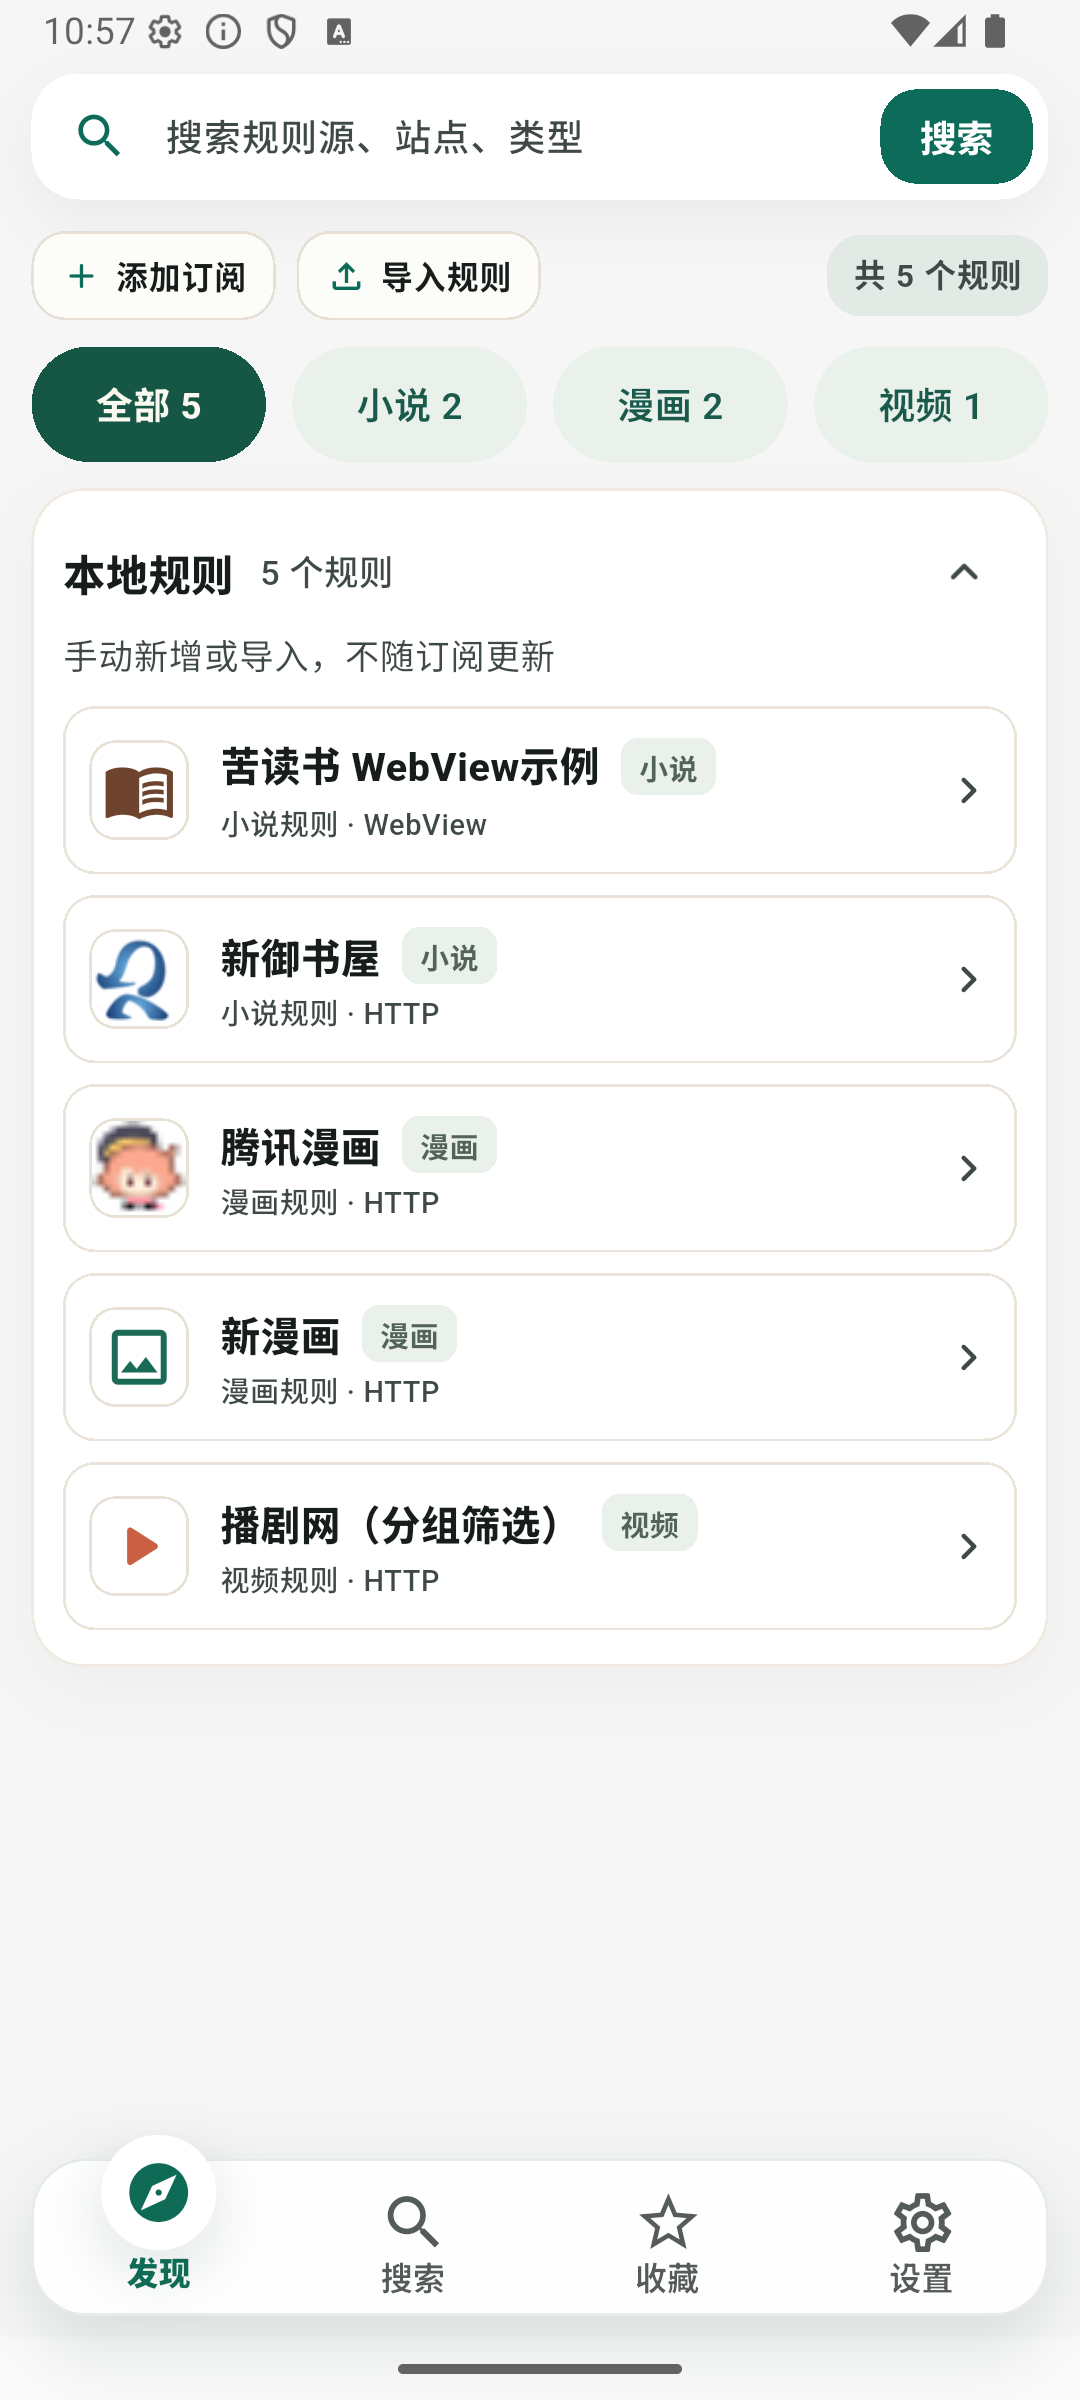
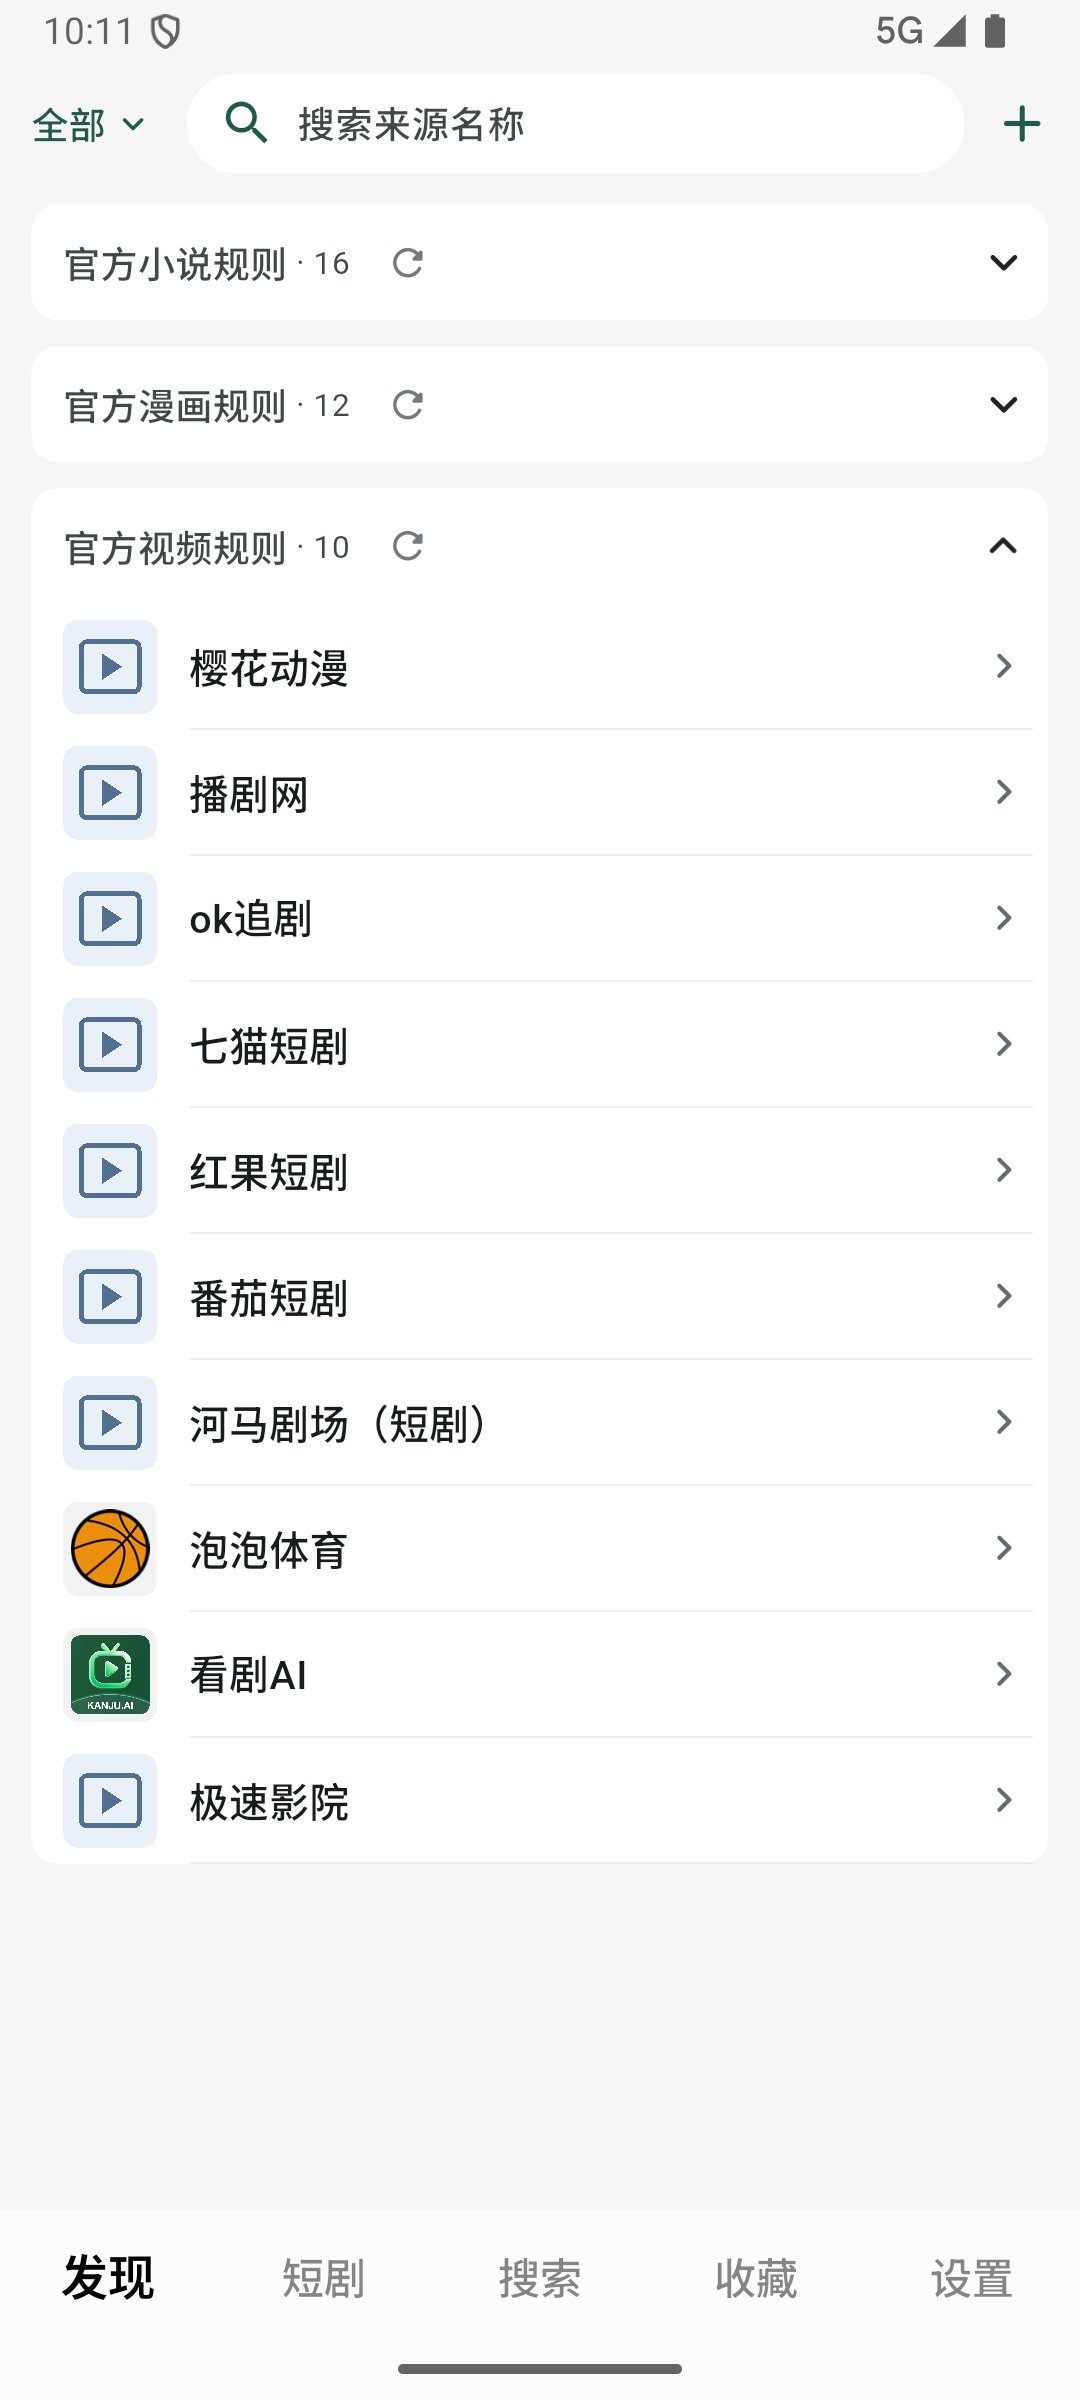
update screenshots

diff --git a/.agents/skills/writing-ikan-rules/SKILL.md b/.agents/skills/writing-ikan-rules/SKILL.md
@@ -13,6 +13,7 @@ Create one ordinary JSON rule object for the current Ikan engine. Never encode i
 2. Read only the repository references relevant to the task:
    - Start with [`rules/README.md`](../../../rules/README.md) and [`rules/01-fields.md`](../../../rules/01-fields.md).
    - For requests, selectors, or JavaScript, read [`02-address-and-request.md`](../../../rules/02-address-and-request.md), [`03-selectors-and-values.md`](../../../rules/03-selectors-and-values.md), or [`04-javascript.md`](../../../rules/04-javascript.md).
+   - For video `contentItems`, read [video resources and quality](../../../rules/01-fields.md#视频资源与清晰度).
    - For same-site mirrors or host failover, read [`10-backup-hosts.md`](../../../rules/10-backup-hosts.md).
    - For login, Cookie/Token, registration, or protected operations, read [`09-authentication.md`](../../../rules/09-authentication.md).
    - Read pagination, images, examples, or troubleshooting references only when those features apply. For combined discover filters, read [`05-pagination-and-session.md`](../../../rules/05-pagination-and-session.md) before drafting `discoverUrl`.
@@ -93,6 +94,7 @@ Rules with auth default to the primary host, with no automatic failover. Only se
 | Direct children of current node | Use Ikan relative CSS such as `>a@text` or `@css:>h3>a@text`. A leading `>` scopes the first child combinator to the current list node; without it, `a@text` matches descendants at any depth. |
 | Embedded chapter content | Use `chapterPayload`; otherwise let `contentUrl` use `chapterResult`. |
 | Multi-road chapters | Set `enableMultiRoads: true` only when the directory contains independent road containers. `chapterRoads` selects each container; `chapterRoadName` and `chapterList` run relative to that container, then chapter value fields run relative to each `chapterList` item. |
+| Multiple quality URLs for the same episode | Return ordered video resource objects from `contentItems`, each with `url` and optional `qualityHeight` as a positive integer such as `720` or `1080`. Put the intended default first. Keep per-address `headers`, `format`, `variant`, and `transform` on that resource when needed. |
 | Descending source catalog | Set `chapterSourceOrder: "desc"` when the complete source directory is newest-first, especially across pagination. Keep `chapterList` as the ordinary selector; do not reverse each page with `@[-1:0]`. |
 | Relative URLs | Prefer engine resolution against the current `baseUrl`/`host`; add JavaScript only when the API requires ID-to-URL construction. |
 | Dynamic page | Inspect scripts/network first. Prefer its usable HTTP/JSON API; treat WebView as the fallback and verify post-render DOM timing. |
@@ -106,6 +108,8 @@ Rules with auth default to the primary host, with no automatic failover. Only se
 | XPath | Use only the documented Ikan XPath subset in `rules/03-selectors-and-values.md`; do not infer support for arbitrary W3C XPath axes, functions, or predicates. |
 | Pagination selector results | `searchNextUrl`, `discoverNextUrl`, `chapterNextUrl`, and `contentNextUrl` use the first non-empty parsed URL. Make the selector target the real next-page link rather than both previous and next links. |
 | Regex replacement in JSON | Use `rule##pattern##replacement##true`. JSON-escape regex backslashes, for example `\\.` in the JSON source for a literal dot, and write `@` directly—never `\@`. |
+
+For video rules, use `enableMultiRoads` for independent chapter lists and `contentItems` for alternate resolutions of the current episode. `contentItems` is a selector or JavaScript expression in the rule JSON. Return the array as the result of that expression. Keep `qualityHeight` inside each returned resource object. Verify that all variants play the same episode and that the first address works as the default.
 
 ## Output Contract
 

diff --git a/rules/01-fields.md b/rules/01-fields.md
@@ -127,7 +127,7 @@
 | --- | --- |
 | `contentUrl` | 正文请求地址。仅在 `chapterPayload` 没有有效结果时执行；留空则直接使用 `chapterResult`。返回 `null` 或 `{skip:true}` 可跳过请求。 |
 | `contentNextUrl` | 正文内部下一页地址，用于同一章被分成多个网页的情况。 |
-| `contentItems` | 小说返回文字列表，漫画返回图片 URL/图片对象，视频返回播放地址。 |
+| `contentItems` | 小说返回文字列表，漫画返回图片 URL/图片对象，视频返回播放地址、视频资源对象或资源数组，见[视频资源与清晰度](#视频资源与清晰度)。 |
 
 正文输入按以下顺序决定：
 
@@ -160,6 +160,26 @@
 当 `chapterResult` 为空而 `chapterPayload` 有值时，应用会使用 payload 的稳定字符串作为
 兼容章节结果，因此正文阶段的 `lastResult` 也可读取该字符串。建议 payload 很大时仍额外
 提供一个简短、稳定且唯一的 `chapterResult`，便于阅读记录和缓存索引。
+
+### 视频资源与清晰度
+
+视频规则（`contentType: 2`）的 `contentItems` 可以返回 URL、`URL@headers{...}`、含 `url` 的视频资源对象，或这些值的数组。相对地址由引擎根据当前正文来源解析。已有只返回一个地址的规则可以沿用。
+
+同一线路的同一集有多个播放地址时，让 `contentItems` 的表达式返回资源数组。以下示例是 JavaScript 表达式，完整规则 JSON 中的 `contentItems` 值为字符串。
+
+```json
+{
+  "contentItems": "@js:[{url: 'https://video.example/ep1-720.mp4', qualityHeight: 720}, {url: 'https://video.example/ep1-1080.mp4', qualityHeight: 1080}]"
+}
+```
+
+- `qualityHeight` 是每条视频资源上可选的正整数，单位为像素。客户端把 `720`、`1080` 显示为 `720P`、`1080P`。请使用站点实际提供的分辨率。
+- 数组第一条是默认播放地址。已支持视频资源数组的旧版客户端会读取第一条，可据此安排兼容性较好的默认地址。
+- 每条地址按需携带自己的 `headers`、`format`、`variant` 或 `transform`。若提供 `variant`，同一集的同一媒体版本应使用稳定标识，签名 URL 更新时也继续使用该标识。
+- 多线路用于切换独立剧集目录。同一集的不同分辨率由 `contentItems` 返回，章节、线路和规则顶层字段可沿用已有配置。
+- 单条 HLS Master 地址可直接返回，由播放器读取内部轨道。若多个档位各有独立地址，使用资源数组。下载时可先选地址档位，选中的地址为 HLS Master 时再选内部轨道。
+
+### 图片资源
 
 `searchCover`、`discoverCover`、`chapterCover` 和漫画 `contentItems` 的图片对象格式完全一致，均支持：
 

diff --git a/README.md b/README.md
@@ -32,13 +32,13 @@ https://github.com/user-attachments/assets/117ab3ae-7a68-4127-ab8f-c14c652375f4
 
 ## 项目截图
 
-| 首页 | 搜索 | 规则发现 |
+| 首页 | 搜索 | 短剧 |
 |:---:|:---:|:---:|
-| <img src="screenshots/home.png" width="200"> | <img src="screenshots/search.png" width="200"> | <img src="screenshots/discover_rule.png" width="200"> |
+| <img src="screenshots/home.png" width="200"> | <img src="screenshots/search.png" width="200"> | <img src="screenshots/shorts.png" width="200"> |
 
-| 内容发现 | 分类 | 小说阅读 |
+| 历史 | 分类 | 小说阅读 |
 |:---:|:---:|:---:|
-| <img src="screenshots/book_discover.png" width="200"> | <img src="screenshots/classify.png" width="200"> | <img src="screenshots/read.png" width="200"> |
+| <img src="screenshots/history.png" width="200"> | <img src="screenshots/classify.png" width="200"> | <img src="screenshots/read.png" width="200"> |
 
 | 漫画阅读 | 视频播放 | 下载管理 |
 |:---:|:---:|:---:|

diff --git a/rules/04-javascript.md b/rules/04-javascript.md
@@ -29,7 +29,7 @@ JS 规则可返回：
 - 数组（包含上述值）
 - Promise，包括 `async` IIFE 的结果
 
-地址字段只接受 URL 字符串、请求对象或 `null`。发现 `discoverUrl` 的 JS 可以返回字符串、列表或请求对象。漫画 `contentItems` 可以返回图片 URL 或结构化图片对象。
+地址字段只接受 URL 字符串、请求对象或 `null`。发现 `discoverUrl` 的 JS 可以返回字符串、列表或请求对象。漫画 `contentItems` 可以返回图片 URL 或结构化图片对象。视频 `contentItems` 可以返回 URL 或[视频资源对象及其数组](01-fields.md#视频资源与清晰度)。
 
 ## 保留全局变量
 
